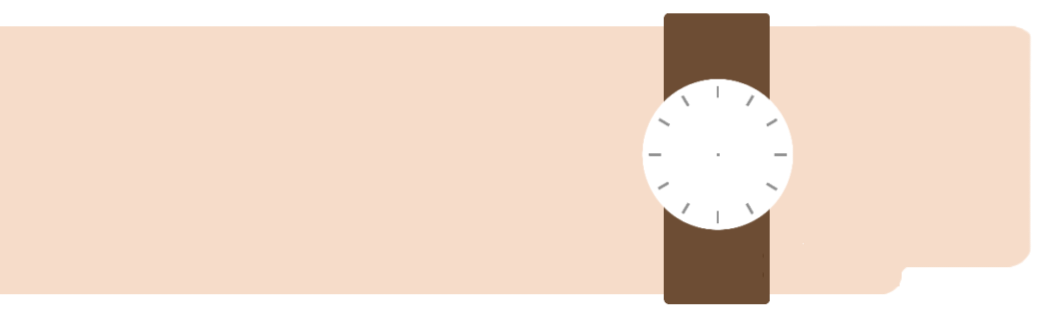
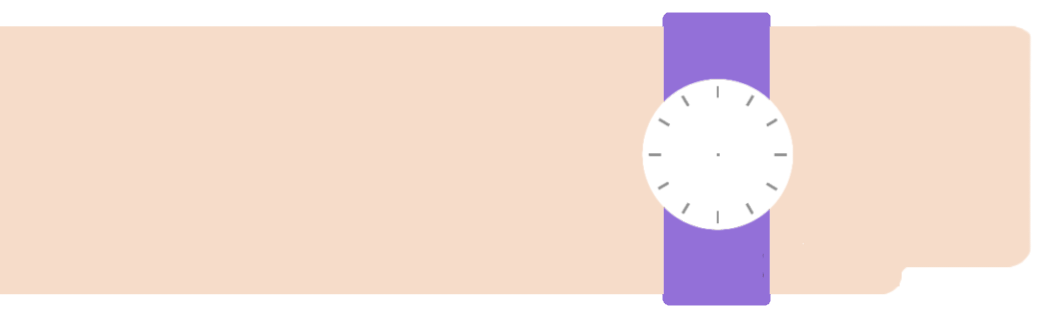
styling index page

Changed region(s): [[0.6244, 0.6542, 0.7493, 0.9657], [0.6244, 0.0312, 0.7493, 0.3115]]

diff --git a/public/stylesheets/style.css b/public/stylesheets/style.css
@@ -1,19 +1,42 @@
-body {
-  font: 14px "Lucida Grande", Helvetica, Arial, sans-serif;
+:root {
+  --main-c: mediumpurple;
 }
 
-a {
-  color: #00B7FF;
+/*헤더 스타일*/
+header{
+  padding: 3px;
+  text-align: center;
+  background-color: var(--main-c);
+}
+h1{
+  padding-top: 10px;
+  padding-bottom: 10px;
+  color: rgb(250, 248, 255);
 }
 
-/*nav 그리드*/
-nav ul{
-  display: grid;
-  grid-template-columns: 1fr 1fr 1fr;
-  text-align : center;
+/*nav 스타일*/
+.list-group-horizontal .list-group-item{
+  width:33.3%;
 }
-nav ul li{
-  display: inline;
+.list-group{
+  --bs-list-group-color: var(--main-c);
+  --bs-list-group-border-color: var(--main-c);
+}
+nav li{
+  cursor: pointer;
+}
+
+/*시험 설정 부분 스타일*/
+.btn{
+  --bs-btn-color: white;
+  background-color: var(--main-c);
+}
+select{
+  cursor: pointer;
+  color: var(--main-c);
+  border-width: 2px;
+  border-color: var(--main-c);
+  border-radius: 2px;
 }
 
 /*시험 설정 부분 그리드*/
@@ -35,4 +58,18 @@ nav ul li{
 }
 #test_head img{
   width: 60vw;
+}
+
+/*본문 스타일*/
+.index-par{
+  margin: 8px;
+  padding: 5px;
+  border: 3px dashed var(--main-c);
+  border-radius: 3px;
+}
+.index-par h2{
+  margin-bottom: 5px;
+  padding: 5px;
+  text-align: center;
+  border-bottom: 2px solid var(--main-c);
 }

diff --git a/routes/index.js b/routes/index.js
@@ -6,4 +6,16 @@ router.get('/', function(req, res, next) {
   res.render('index');
 });
 
+router.get('/inputTab', function(req, res, next){
+  res.render('inputTab');
+});
+
+router.get('/logTab', function(req, res, next){
+  res.render('logTab');
+});
+
+router.get('/testTab', function(req, res, next){
+  res.render('testTab');
+});
+
 module.exports = router;
